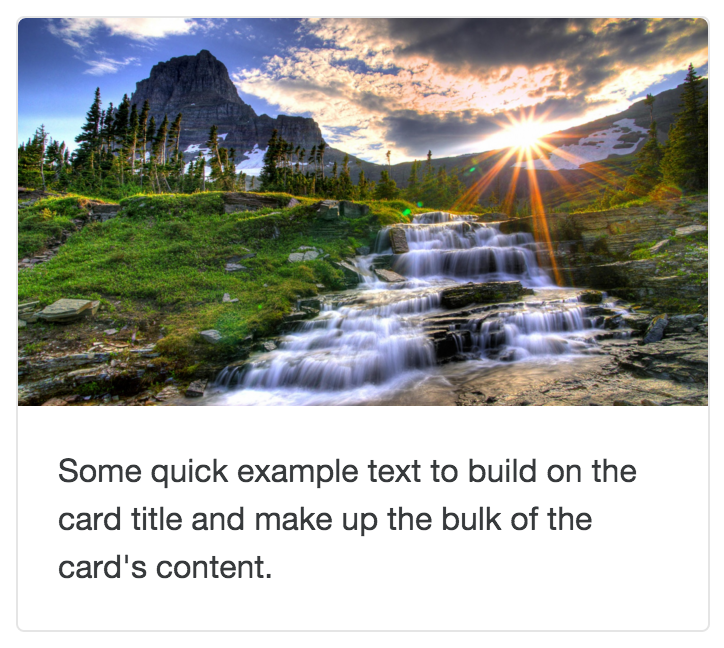
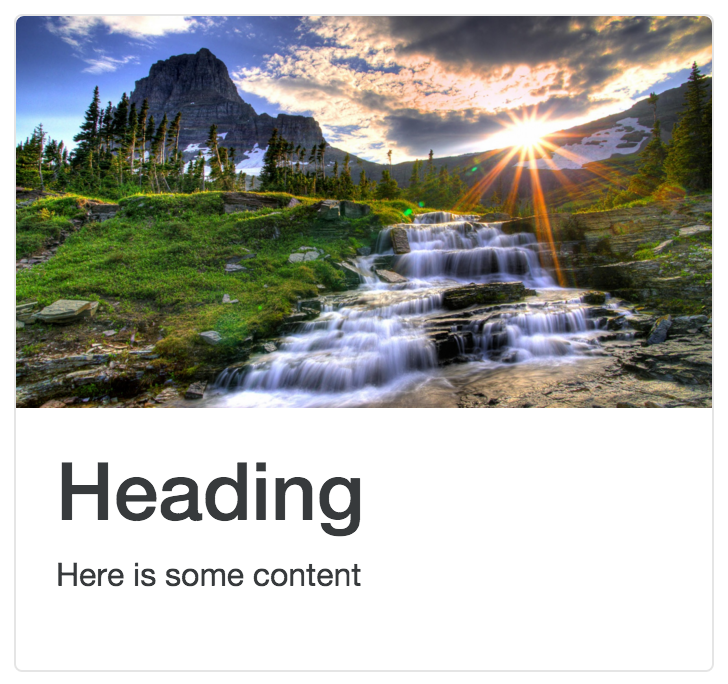
Completed add some content section

diff --git a/projects/web/personal_website/solution/index.html b/projects/web/personal_website/solution/index.html
@@ -28,28 +28,39 @@
       </div>
     </section>
 
-    <div class="container">
-
-      <div class="row">
-        <div class="col-sm-6">
-        <div class="card">
-          <img class="card-img-top full-width" src="http://cdn.bigbangfish.com/beautiful/beautiful-landscapes/beautiful-landscapes-1.jpg" alt="Card image cap">
-          <div class="card-block">
-            <p class="card-text">Some quick example text to build on the card title and make up the bulk of the card's content.</p>
+    <section>
+      <div class="container">
+        <div class="row">
+          <div class="col-sm-4">
+            <div class="card">
+              <img class="card-img-top full-width" src="http://cdn.bigbangfish.com/beautiful/beautiful-landscapes/beautiful-landscapes-1.jpg">
+              <div class="card-block">
+                <h1>Heading</h1>
+                <p>Here is some content</p>
+              </div>
+            </div>
           </div>
-        </div>
-        </div>
-        <div class="col-sm-6">
-        <div class="card">
-          <img class="card-img-top full-width" src="http://cdn.bigbangfish.com/beautiful/beautiful-landscapes/beautiful-landscapes-1.jpg" alt="Card image cap">
-          <div class="card-block">
-            <p class="card-text">Some quick example text to build on the card title and make up the bulk of the card's content.</p>
+          <div class="col-sm-4">
+            <div class="card">
+              <img class="card-img-top full-width" src="http://desktopbackgrounds4u.com/wp-content/gallery/beautiful-landscapes-wallpapers/Beautiful+Cold+Landscapes+Full+HD+Wallpapers+(48).jpg">
+              <div class="card-block">
+                <h1>Heading</h1>
+                <p>Here is some content</p>
+              </div>
+            </div>
           </div>
-        </div>
+          <div class="col-sm-4">
+            <div class="card">
+              <img class="card-img-top full-width" src="http://wallpaper.pickywallpapers.com/1600x900/beautiful-waterfalls.jpg">
+              <div class="card-block">
+                <h1>Heading</h1>
+                <p>Here is some content</p>
+              </div>
+            </div>
+          </div>
         </div>
       </div>
-
-    </div>
+    </section>
 
     <footer class="footer">
       <div class="container">
